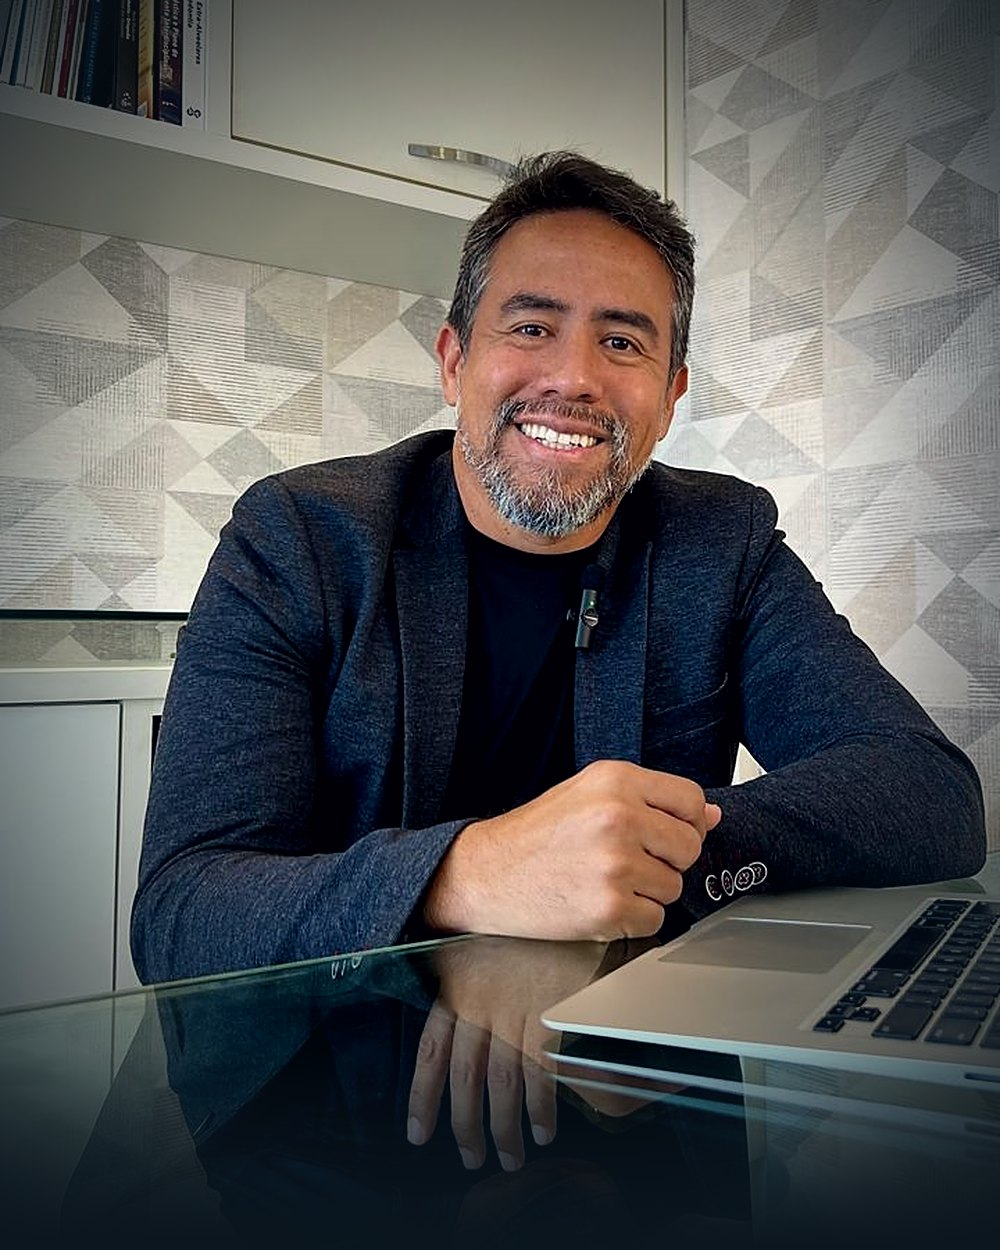
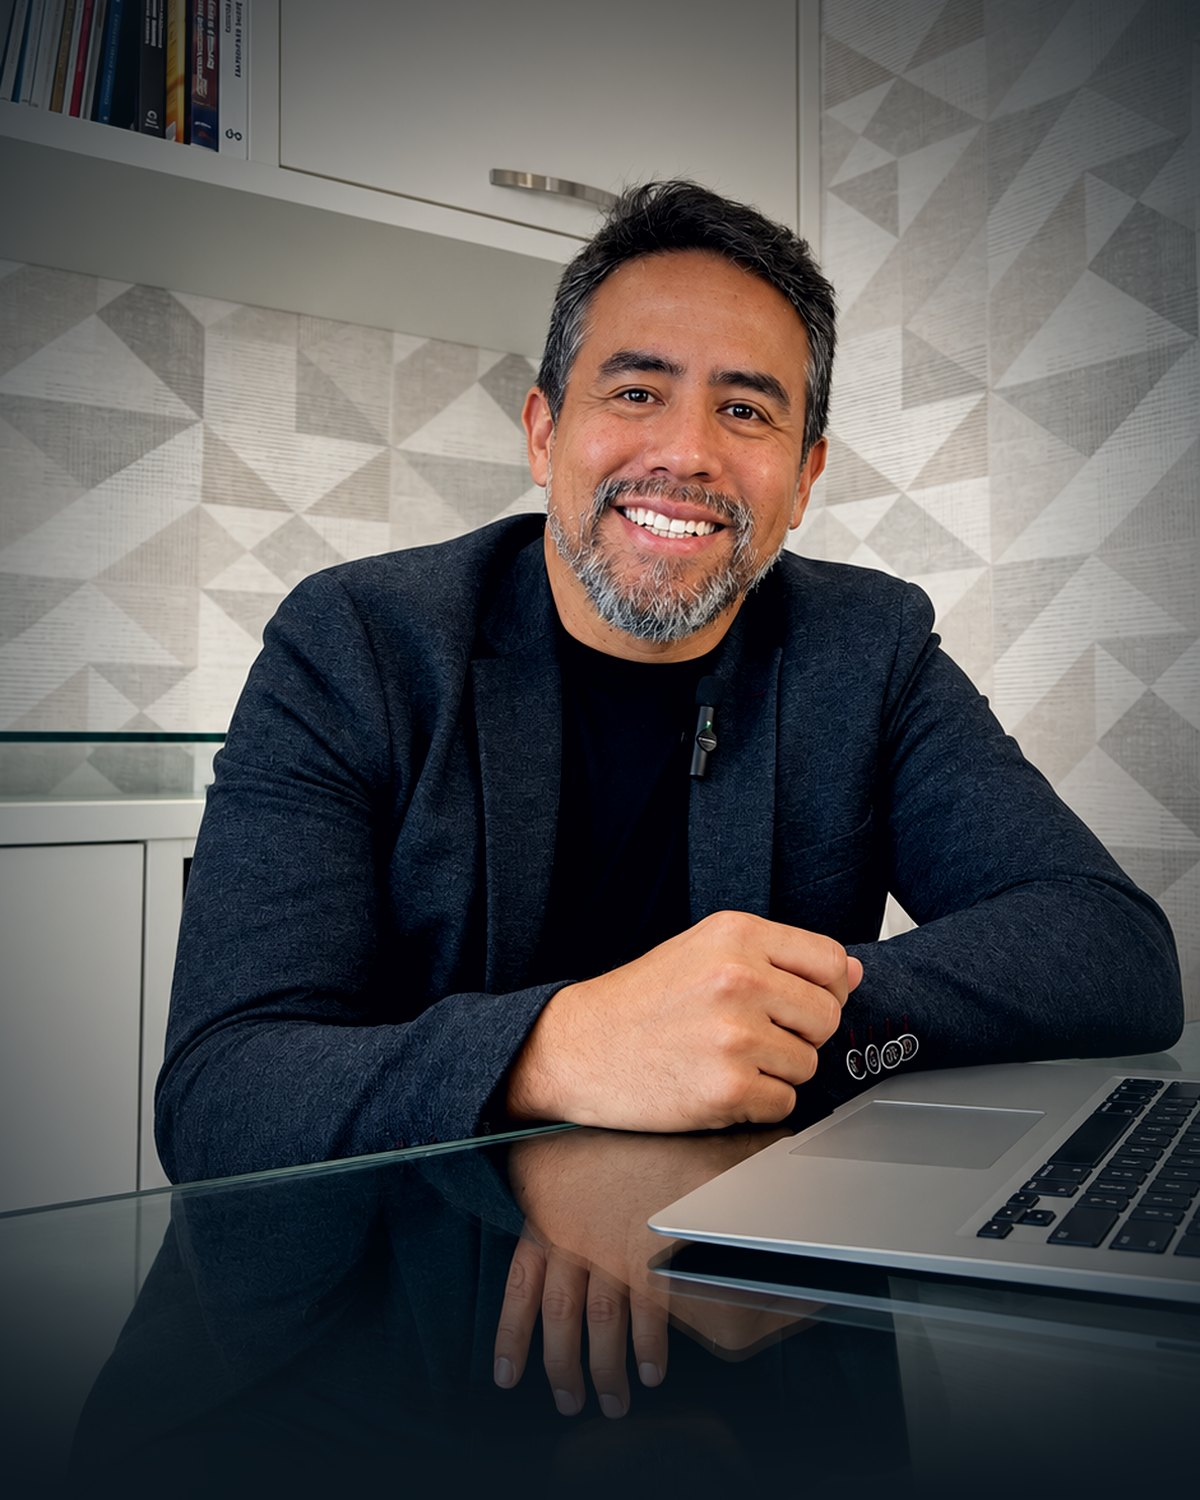
Foto do topo em alta resolução
Substitui a foto do professor pela versão com qualidade melhorada,
mantendo o mesmo recorte e tratamento (1200x1500).

Claude-Session: https://claude.ai/code/session_01TfK6iaLiVDNSPVqvTXK6ad

diff --git a/index.html b/index.html
@@ -135,7 +135,7 @@ MENTORIA ONLINE EM ENDODONTIA
 <div class="ee-r ee-r-scale ee-d2" style="flex: 1 1 380px; min-width: 0; max-width: 500px; margin: 0 auto; position: relative">
 <div style="position: absolute; top: -18px; right: -18px; bottom: 18px; left: 18px; border: 1px solid rgba(63,217,181,0.4); border-radius: 28px"></div>
 <div class="ee-zoom" style="position: relative; border-radius: 28px; overflow: hidden; aspect-ratio: 4 / 5; background: #12222C">
-<img src="assets/christian.jpg" alt="Prof. Dr. Christian Castilho sorrindo à mesa do consultório" width="1000" height="1250" style="width: 100%; height: 100%; object-fit: cover; object-position: 50% 30%; display: block">
+<img src="assets/christian.jpg" alt="Prof. Dr. Christian Castilho sorrindo à mesa do consultório" width="1200" height="1500" style="width: 100%; height: 100%; object-fit: cover; object-position: 50% 30%; display: block">
 </div>
 <div class="ee-r ee-r-left ee-d5 ee-mentor" style="position: absolute; left: -24px; bottom: 36px; background: rgba(11,22,30,0.92); backdrop-filter: blur(10px); border: 1px solid rgba(255,255,255,0.1); border-radius: 18px; padding: 16px 22px; display: flex; flex-direction: column; gap: 2px">
 <span class="ee-eyebrow" style="font-size: 11px; letter-spacing: 0.24em; color: #6FD8C4; font-weight: 500">SEU MENTOR</span>
